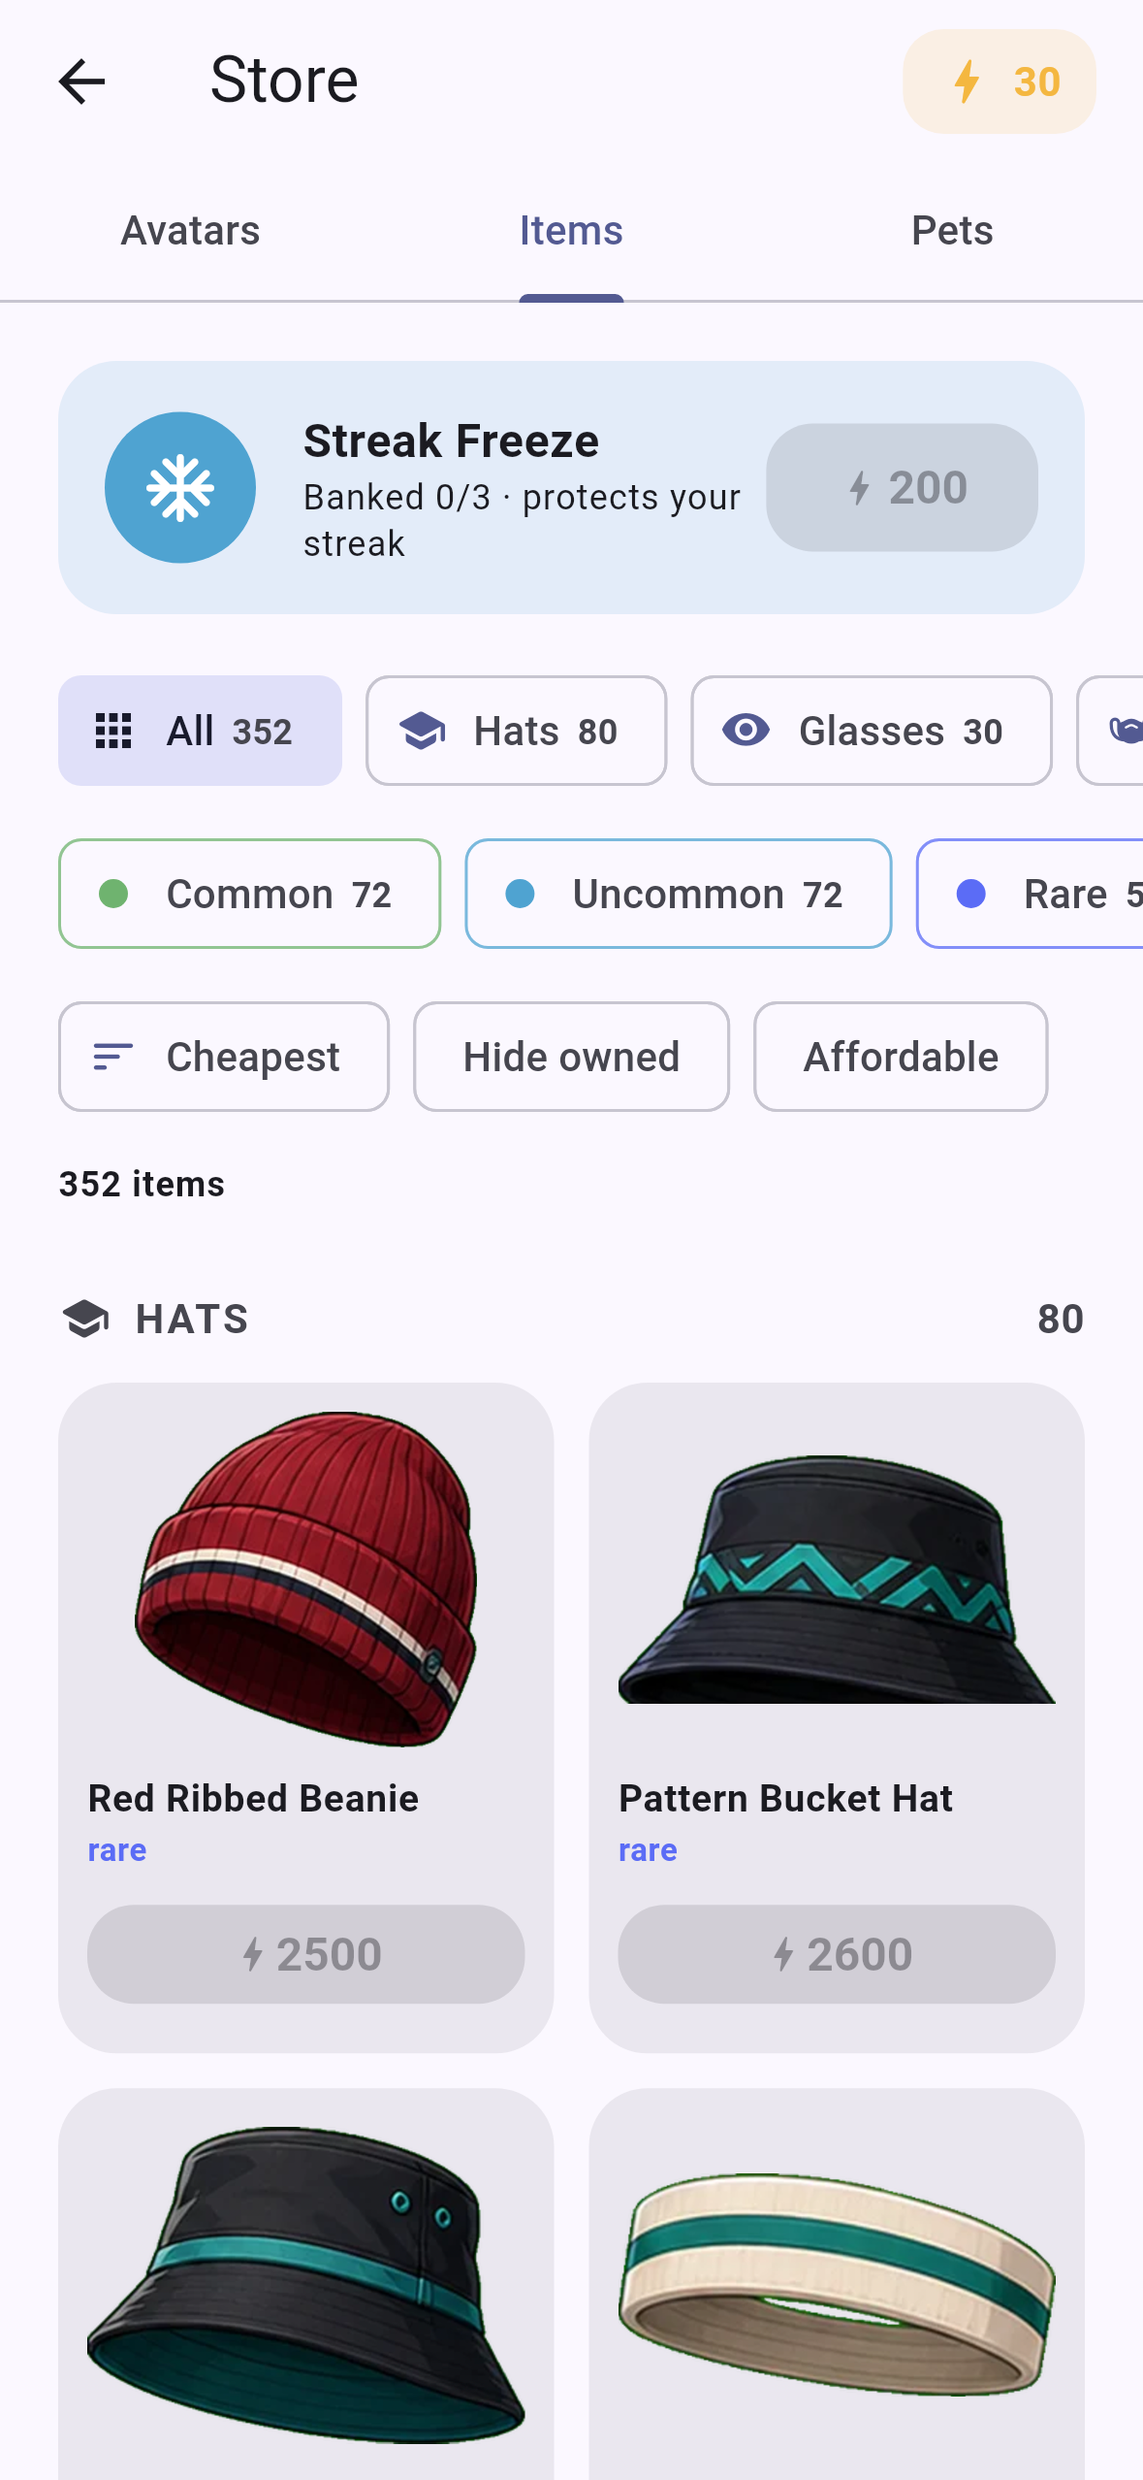
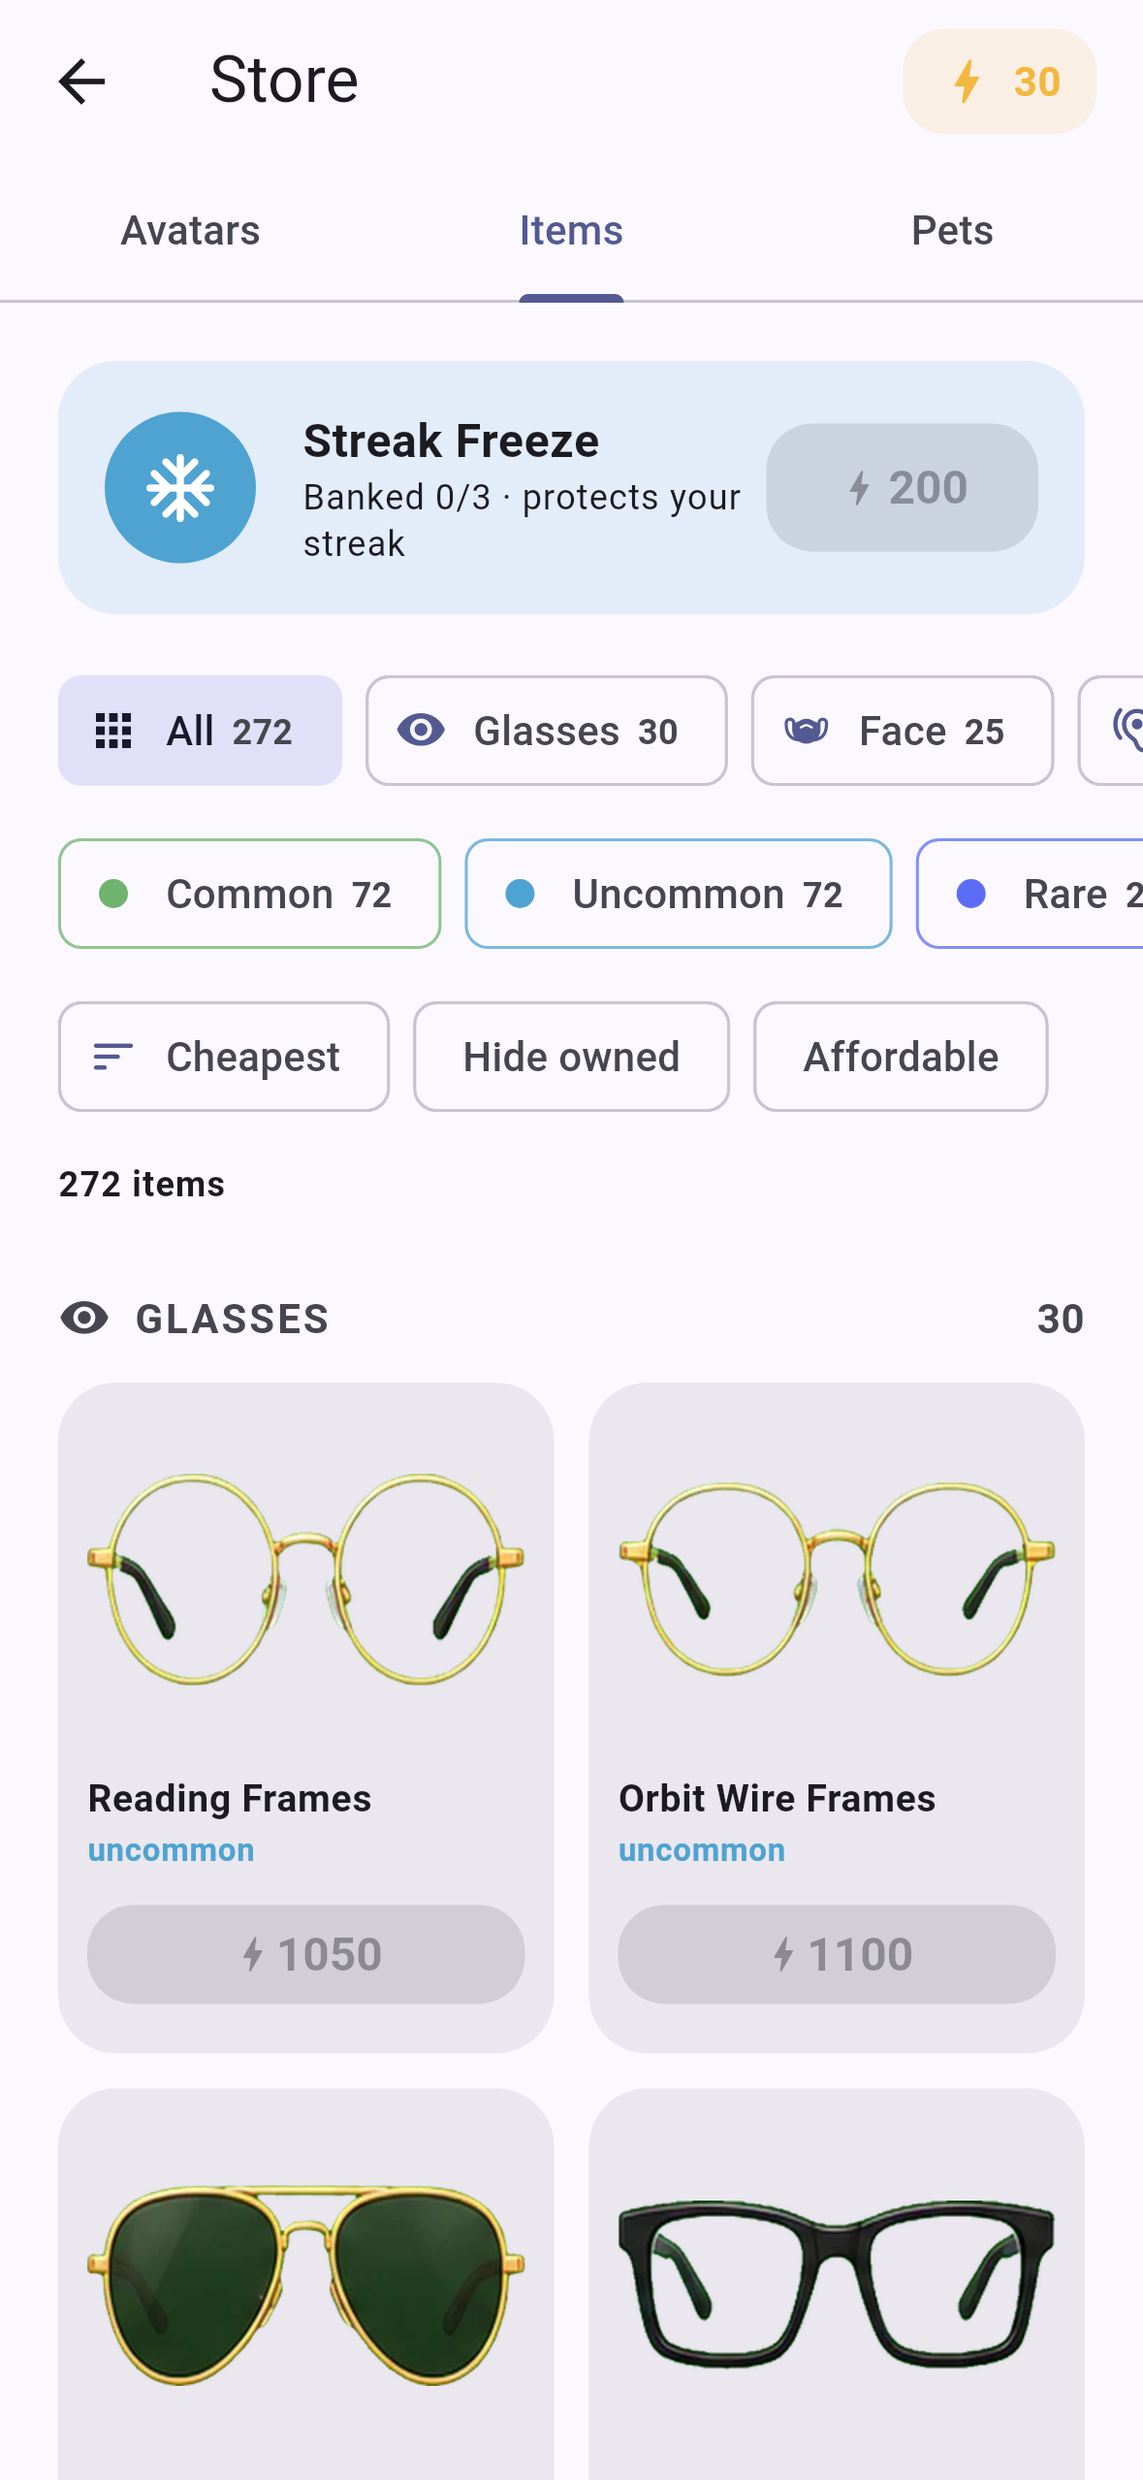
Retire hats for now (keep the art): v2.2.1
The hat art is drawn tilted, so the underside of the brim shows over the
face; placement and clipping can't fix that. Hats are hidden from the store,
customizer and chests via kRetiredItemCategories. The art and catalog stay in
the pack, owned hats stay owned, and AvatarCatalog.fromJson(includeRetired:
true) still loads them (layout tests keep checking them) so they can return
once redrawn. Tests and docs screenshots switched to earrings/glasses.

Claude-Session: https://claude.ai/code/session_01JuAfHkA4chYBvhEiUhrkwo

diff --git a/test/widget/store_filters_test.dart b/test/widget/store_filters_test.dart
@@ -69,10 +69,15 @@ void main() {
       await _openStoreTab(tester, 'Items');
 
       expect(_count(tester), '${items.length} items');
-      // "All" is grouped into category sections, hats first.
-      expect(find.text('HATS'), findsOneWidget);
-      final hats = _sorted(items.where((a) => a.category == 'headwear'));
-      expect(_tile(hats.first), findsOneWidget);
+      // "All" is grouped into category sections, glasses first (hats are
+      // retired for now).
+      expect(find.text('GLASSES'), findsOneWidget);
+      expect(find.text('HATS'), findsNothing);
+      expect(_key('catalog-category-headwear'), findsNothing);
+      final firstGlasses = _sorted(
+        items.where((a) => a.category == 'eyewear'),
+      ).first;
+      expect(_tile(firstGlasses), findsOneWidget);
 
       // Every category chip is present with its friendly label.
       for (final c in items.map((a) => a.category).toSet()) {
@@ -86,15 +91,15 @@ void main() {
         );
       }
 
-      await _tap(tester, _key('catalog-category-eyewear'));
-      final glasses = _sorted(items.where((a) => a.category == 'eyewear'));
-      expect(_count(tester), 'Showing ${glasses.length} of ${items.length}');
-      expect(_tile(glasses.first), findsOneWidget);
-      expect(_tile(hats.first), findsNothing);
-      expect(find.text('HATS'), findsNothing); // no sections when filtered
+      await _tap(tester, _key('catalog-category-ear_accessory'));
+      final ears = _sorted(items.where((a) => a.category == 'ear_accessory'));
+      expect(_count(tester), 'Showing ${ears.length} of ${items.length}');
+      expect(_tile(ears.first), findsOneWidget);
+      expect(_tile(firstGlasses), findsNothing);
+      expect(find.text('GLASSES'), findsNothing); // no sections when filtered
 
       // Tapping the selected chip again goes back to All.
-      await _tap(tester, _key('catalog-category-eyewear'));
+      await _tap(tester, _key('catalog-category-ear_accessory'));
       expect(_count(tester), '${items.length} items');
     });
 
@@ -117,30 +122,30 @@ void main() {
         'Showing ${epicOrLegendary.length} of ${items.length}',
       );
 
-      // Combine with a category: legendary/epic hats only, no rare hats.
-      await _tap(tester, _key('catalog-category-headwear'));
+      // Combine with a category: legendary/epic earrings only, no rare ones.
+      await _tap(tester, _key('catalog-category-ear_accessory'));
       final bigHats = _sorted(
-        epicOrLegendary.where((a) => a.category == 'headwear'),
+        epicOrLegendary.where((a) => a.category == 'ear_accessory'),
       );
       expect(_count(tester), 'Showing ${bigHats.length} of ${items.length}');
       expect(_tile(bigHats.first), findsOneWidget);
       final rareHat = _sorted(
-        items.where((a) => a.category == 'headwear' && a.rarity == 'rare'),
+        items.where((a) => a.category == 'ear_accessory' && a.rarity == 'rare'),
       ).first;
       expect(_tile(rareHat), findsNothing);
 
       await _tap(tester, _key('catalog-clear'));
       expect(_count(tester), '${items.length} items');
-      expect(find.text('HATS'), findsOneWidget);
+      expect(find.text('GLASSES'), findsOneWidget);
     });
 
     testWidgets('an empty result offers Clear filters', (tester) async {
       await pumpApp(tester, store: _store());
       await _openStoreTab(tester, 'Items');
 
-      // No hat is common.
+      // No necklace is common.
       await _tap(tester, _key('catalog-rarity-common'));
-      await _tap(tester, _key('catalog-category-headwear'));
+      await _tap(tester, _key('catalog-category-neck_accessory'));
       expect(_count(tester), 'Showing 0 of ${items.length}');
       expect(find.text('No items match these filters'), findsOneWidget);
 
@@ -279,10 +284,10 @@ void main() {
   });
 
   group('customizer', () {
-    // 3 hats, 3 glasses, 2 necklaces; 6 pets across rarities.
+    // 3 earrings, 3 glasses, 2 necklaces; 6 pets across rarities.
     List<CatalogAsset> pick(String category, int n) =>
         _sorted(items.where((a) => a.category == category)).take(n).toList();
-    final hats = pick('headwear', 3);
+    final hats = pick('ear_accessory', 3);
     final glasses = pick('eyewear', 3);
     final necks = pick('neck_accessory', 2);
     final ownedItems = [...hats, ...glasses, ...necks];

diff --git a/test/unit/avatar_catalog_test.dart b/test/unit/avatar_catalog_test.dart
@@ -25,7 +25,7 @@ Map<String, dynamic> _raw({
 
 void main() {
   test('parses slot type and placement target box', () {
-    final c = AvatarCatalog.fromJson({
+    final c = AvatarCatalog.fromJson(includeRetired: true, {
       'pack_id': 'p',
       'style_version': 'v',
       'assets': [
@@ -50,7 +50,7 @@ void main() {
   });
 
   test('parses per-slot targets for side assets', () {
-    final c = AvatarCatalog.fromJson({
+    final c = AvatarCatalog.fromJson(includeRetired: true, {
       'pack_id': 'p',
       'style_version': 'v',
       'assets': [
@@ -80,7 +80,7 @@ void main() {
   });
 
   test('assets without placement fall back to a full-frame target', () {
-    final c = AvatarCatalog.fromJson({
+    final c = AvatarCatalog.fromJson(includeRetired: true, {
       'pack_id': 'p',
       'style_version': 'v',
       'assets': [
@@ -94,7 +94,7 @@ void main() {
   });
 
   test('excludes jacket/blazer overlays everywhere', () {
-    final c = AvatarCatalog.fromJson({
+    final c = AvatarCatalog.fromJson(includeRetired: true, {
       'pack_id': 'p',
       'style_version': 'v',
       'assets': [
@@ -111,5 +111,33 @@ void main() {
     expect(c['cap'], isNotNull);
     expect(c['blazer'], isNull);
     expect(c.items.any((a) => a.category == 'jacket_overlay'), isFalse);
+  });
+
+  test('retired categories (hats) are hidden unless asked for', () {
+    final json = {
+      'pack_id': 'p',
+      'style_version': 'v',
+      'assets': [
+        _raw(id: 'cap', type: 'item', slotType: 'worn'),
+        _raw(
+          id: 'specs',
+          type: 'item',
+          slotType: 'worn',
+          category: 'eyewear',
+          slots: const ['eyewear'],
+        ),
+        _raw(id: 'av', type: 'avatar', slotType: 'base', slots: const []),
+      ],
+    };
+    expect(kRetiredItemCategories, contains('headwear'));
+    final shown = AvatarCatalog.fromJson(json);
+    expect(
+      shown['cap'],
+      isNull,
+    ); // headwear hidden from store/customizer/chests
+    expect(shown['specs'], isNotNull);
+    expect(shown['av'], isNotNull);
+    final all = AvatarCatalog.fromJson(json, includeRetired: true);
+    expect(all['cap'], isNotNull); // art and data are kept
   });
 }

diff --git a/test/screenshots/avatar_showcase_test.dart b/test/screenshots/avatar_showcase_test.dart
@@ -139,16 +139,16 @@ void main() {
     await _shoot(tester, '01_base', 'Starter avatar', _loadout(nova, {}));
     await _shoot(
       tester,
-      '02_headwear',
-      '+ Classic Cap',
-      _loadout(nova, {'headwear': 'item_001_classic_cap'}),
+      '02_earrings',
+      '+ Gold Hoops',
+      _loadout(nova, {'ear_accessory': 'item_260_minimal_gold_hoops'}),
     );
     await _shoot(
       tester,
       '03_eyewear',
       '+ Round Glasses',
       _loadout(nova, {
-        'headwear': 'item_001_classic_cap',
+        'ear_accessory': 'item_260_minimal_gold_hoops',
         'eyewear': 'item_041_round_glasses',
       }),
     );
@@ -157,7 +157,7 @@ void main() {
       '04_badge_scarf',
       '+ Scarf & Badge',
       _loadout(nova, {
-        'headwear': 'item_001_classic_cap',
+        'ear_accessory': 'item_260_minimal_gold_hoops',
         'eyewear': 'item_041_round_glasses',
         'neck_accessory': 'item_096_red_scarf',
         'chest_badge': 'item_121_starter_star_badge',
@@ -170,7 +170,7 @@ void main() {
       _loadout(nova, {
         'background_frame': 'item_201_neon_focus_ring',
         'back_or_aura': 'item_151_soft_aura',
-        'headwear': 'item_001_classic_cap',
+        'ear_accessory': 'item_260_minimal_gold_hoops',
         'eyewear': 'item_041_round_glasses',
         'neck_accessory': 'item_096_red_scarf',
         'chest_badge': 'item_121_starter_star_badge',
@@ -192,9 +192,9 @@ void main() {
     await _shoot(
       tester,
       '07_sage',
-      'Sage · cap + props',
+      'Sage · studs + props',
       _loadout(sage, {
-        'headwear': 'item_001_classic_cap',
+        'ear_accessory': 'item_249_silver_studs',
         'side_left_1': 'pet_fox_study_cap_001',
         'side_right_1': 'item_176_pencil_wand',
       }),

diff --git a/test/widget/avatar_fullscreen_test.dart b/test/widget/avatar_fullscreen_test.dart
@@ -10,7 +10,7 @@ import 'package:zany_test_prep/features/rewards/avatar_view.dart';
 
 import '../helpers/pump_app.dart';
 
-const _hat = 'item_001_classic_cap'; // "Classic Cap"
+const _hat = 'item_249_silver_studs'; // "Silver Studs"
 const _mask = 'item_071_simple_mask'; // "Simple Mask"
 
 MemoryStore _store({Map<String, String> equipped = const {}}) {
@@ -41,7 +41,7 @@ void main() {
   ) async {
     await pumpApp(
       tester,
-      store: _store(equipped: {'headwear': _hat, 'face_accessory': _mask}),
+      store: _store(equipped: {'ear_accessory': _hat, 'face_accessory': _mask}),
     );
     await _openCustomizer(tester);
 
@@ -61,7 +61,7 @@ void main() {
     expect(
       find.descendant(
         of: find.byType(AvatarFullScreen),
-        matching: find.widgetWithText(Chip, 'Classic Cap'),
+        matching: find.widgetWithText(Chip, 'Silver Studs'),
       ),
       findsOneWidget,
     );
@@ -94,7 +94,7 @@ void main() {
   testWidgets('double-tap zooms in and a second double-tap resets', (
     tester,
   ) async {
-    await pumpApp(tester, store: _store(equipped: {'headwear': _hat}));
+    await pumpApp(tester, store: _store(equipped: {'ear_accessory': _hat}));
     await _openCustomizer(tester);
     await tester.tap(find.byType(TappableAvatarPreview));
     await tester.pumpAndSettle();
@@ -122,7 +122,7 @@ void main() {
   });
 
   testWidgets('the rewards hub preview opens it too', (tester) async {
-    await pumpApp(tester, store: _store(equipped: {'headwear': _hat}));
+    await pumpApp(tester, store: _store(equipped: {'ear_accessory': _hat}));
     await tester.tap(find.byIcon(Icons.card_giftcard_rounded));
     await tester.pumpAndSettle();
     await tester.tap(find.byType(TappableAvatarPreview));

diff --git a/lib/domain/models/avatar_catalog.dart b/lib/domain/models/avatar_catalog.dart
@@ -15,6 +15,14 @@ library;
 /// out of the store, customizer, and chest drops.
 const Set<String> kExcludedItemCategories = {'jacket_overlay'};
 
+/// Item categories hidden for now but kept in the pack so they can come back:
+/// the hats are drawn tilted (their underside shows over the face), so they're
+/// off the store, customizer and chests until the art is redrawn front-facing.
+/// Hats a player already owns stay in their inventory and reappear when a
+/// category is removed from this set. Pass `includeRetired: true` to
+/// [AvatarCatalog.fromJson] to load them anyway (layout tests do).
+const Set<String> kRetiredItemCategories = {'headwear'};
+
 /// z of items drawn behind the avatar: under the avatar (0), above back auras
 /// (-20) and background frames (-40).
 const int kBehindAvatarZ = -10;
@@ -363,12 +371,21 @@ class AvatarCatalog {
       ? starterAvatars.first
       : (avatars.isNotEmpty ? avatars.first : null);
 
-  factory AvatarCatalog.fromJson(Map<String, dynamic> j) => AvatarCatalog(
+  factory AvatarCatalog.fromJson(
+    Map<String, dynamic> j, {
+    bool includeRetired = false,
+  }) => AvatarCatalog(
     packId: j['pack_id'] as String? ?? 'unknown',
     styleVersion: j['style_version'] as String? ?? 'unknown',
     assets: ((j['assets'] as List?) ?? const [])
         .map((e) => CatalogAsset.fromJson((e as Map).cast<String, dynamic>()))
         .where((a) => !kExcludedItemCategories.contains(a.category))
+        .where(
+          (a) =>
+              includeRetired ||
+              !a.isItem ||
+              !kRetiredItemCategories.contains(a.category),
+        )
         .toList(),
   );
 

diff --git a/test/screenshots/screenshot_test.dart b/test/screenshots/screenshot_test.dart
@@ -285,14 +285,14 @@ void main() {
     tester,
   ) async {
     const owned = {
-      'item_001_classic_cap', // headwear
+      'item_249_silver_studs', // ear accessory
       'item_041_round_glasses', // eyewear
       'item_071_simple_mask', // face_accessory
       'pet_fox_study_cap_001', // side pet
     };
     const paths = [
       'assets/avatar/avatars/starter/avatar_basic_001_nova_learner.webp',
-      'assets/avatar/items/headwear/item_001_classic_cap.webp',
+      'assets/avatar/items/ear_accessory/item_249_silver_studs.webp',
       'assets/avatar/items/eyewear/item_041_round_glasses.webp',
       'assets/avatar/items/face_accessory/item_071_simple_mask.webp',
       'assets/avatar/pets/common/pet_fox_study_cap_001.webp',
@@ -327,7 +327,7 @@ void main() {
     // Scroll the owned-items rows into view (the regression area) and capture.
     final scrollable = find.byType(Scrollable).first;
     await tester.scrollUntilVisible(
-      find.text('Classic Cap'),
+      find.text('Silver Studs'),
       300,
       scrollable: scrollable,
     );

diff --git a/test/unit/catalog_filter_test.dart b/test/unit/catalog_filter_test.dart
@@ -116,7 +116,7 @@ void main() {
     test('category counts are faceted on the other filters', () {
       final items = _catalog.items;
       final filter = const CatalogFilter(
-        category: 'headwear',
+        category: 'neck_accessory',
       ).toggleRarity('legendary');
       final counts = filter.categoryCounts(items);
       // The selected category does not narrow its own counts...
@@ -135,10 +135,10 @@ void main() {
       final rarities = filter.rarityCounts(items);
       expect(rarities.keys.first, 'common'); // ordered common -> legendary
       expect(rarities['legendary'], greaterThan(0));
-      expect(rarities['common'], 0); // no common hats
+      expect(rarities['common'], 0); // no common necklaces
       expect(
         rarities.values.fold(0, (a, b) => a + b),
-        items.where((a) => a.category == 'headwear').length,
+        items.where((a) => a.category == 'neck_accessory').length,
       );
     });
 

diff --git a/test/widget/owned_items_test.dart b/test/widget/owned_items_test.dart
@@ -10,7 +10,7 @@ import '../helpers/pump_app.dart';
 
 // Real catalog asset ids (assets/avatar/manifest/avatar_catalog.json), one per
 // worn category plus a side pet.
-const _hat = 'item_001_classic_cap'; // "Classic Cap" (headwear)
+const _hat = 'item_249_silver_studs'; // "Silver Studs" (ear_accessory)
 const _glasses = 'item_041_round_glasses'; // "Round Glasses" (eyewear)
 const _mask = 'item_071_simple_mask'; // "Simple Mask" (face_accessory)
 const _pet = 'pet_fox_study_cap_001'; // "Study Cap Fox" (side slots)
@@ -45,7 +45,7 @@ void main() {
 
     // The rows render (no layout crash) — all owned items appear with an Equip
     // button each.
-    expect(find.text('Classic Cap'), findsOneWidget);
+    expect(find.text('Silver Studs'), findsOneWidget);
     expect(find.text('Round Glasses'), findsOneWidget);
     expect(find.text('Simple Mask'), findsOneWidget);
     expect(find.text('Study Cap Fox'), findsOneWidget);

diff --git a/test/render/overlap_test.dart b/test/render/overlap_test.dart
@@ -16,6 +16,7 @@ final AvatarCatalog _catalog = AvatarCatalog.fromJson(
         File('assets/avatar/manifest/avatar_catalog.json').readAsStringSync(),
       )
       as Map<String, dynamic>,
+  includeRetired: true,
 );
 
 /// Renders a single trimmed sprite into a [size]² transparent frame using the

diff --git a/test/render/catalog_geometry_test.dart b/test/render/catalog_geometry_test.dart
@@ -19,7 +19,7 @@ void main() {
             ).readAsStringSync(),
           )
           as Map<String, dynamic>;
-  final catalog = AvatarCatalog.fromJson(raw);
+  final catalog = AvatarCatalog.fromJson(raw, includeRetired: true);
   const size = 512.0;
 
   Rect region(String name) {

diff --git a/test/render/face_fit_test.dart b/test/render/face_fit_test.dart
@@ -16,6 +16,7 @@ void main() {
           File('assets/avatar/manifest/avatar_catalog.json').readAsStringSync(),
         )
         as Map<String, dynamic>,
+    includeRetired: true,
   );
   const size = 512.0;
   final fitted = catalog.items.where((i) => i.fit != null).toList();

diff --git a/lib/core/app_info.dart b/lib/core/app_info.dart
@@ -5,4 +5,4 @@
 /// pubspec.yaml when cutting a release (see docs/release.md).
 library;
 
-const String kAppVersion = '2.2.0';
+const String kAppVersion = '2.2.1';
